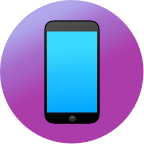
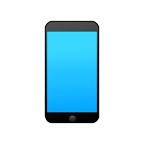
Switch build.webkit.org to iOS 10 https://bugs.webkit.org/show_bug.cgi?id=161930
Reviewed by Daniel Bates.

* BuildSlaveSupport/build.webkit.org-config/config.json:
* BuildSlaveSupport/build.webkit.org-config/master.cfg:
(RunWebKitTests.start):
* BuildSlaveSupport/build.webkit.org-config/mastercfg_unittest.py:
* BuildSlaveSupport/build.webkit.org-config/public_html/dashboard/Images/IOS10.png: Added.
* BuildSlaveSupport/build.webkit.org-config/public_html/dashboard/Images/IOS10@2x.png: Added.
* BuildSlaveSupport/build.webkit.org-config/public_html/dashboard/Images/IOS10Simulator.png: Added.
* BuildSlaveSupport/build.webkit.org-config/public_html/dashboard/Images/IOS10Simulator@2x.png: Added.
* BuildSlaveSupport/build.webkit.org-config/public_html/dashboard/Images/IOSDevice.png:
* BuildSlaveSupport/build.webkit.org-config/public_html/dashboard/Images/IOSDevice@2x.png:
* BuildSlaveSupport/build.webkit.org-config/public_html/dashboard/Images/IOSSimulator.png: Added.
* BuildSlaveSupport/build.webkit.org-config/public_html/dashboard/Images/IOSSimulator@2x.png: Added.
* BuildSlaveSupport/build.webkit.org-config/public_html/dashboard/Scripts/BubbleQueueServer.js:
* BuildSlaveSupport/build.webkit.org-config/public_html/dashboard/Scripts/Dashboard.js:
* BuildSlaveSupport/build.webkit.org-config/public_html/dashboard/Scripts/WebKitBuildbot.js:
* BuildSlaveSupport/build.webkit.org-config/public_html/dashboard/Styles/Main.css:
* BuildSlaveSupport/build.webkit.org-config/wkbuild.py:
* BuildSlaveSupport/build.webkit.org-config/wkbuild_unittest.py:
[…]

diff --git a/Tools/BuildSlaveSupport/build.webkit.org-config/public_html/dashboard/Scripts/WebKitBuildbot.js b/Tools/BuildSlaveSupport/build.webkit.org-config/public_html/dashboard/Scripts/WebKitBuildbot.js
@@ -55,13 +55,13 @@ WebKitBuildbot = function()
             "Apple Yosemite Debug JSC (Tests)": {heading: "Debug JSC (Tests)"},
             "Apple Yosemite Release JSC (Tests)": {heading: "Release JSC (Tests)"},
         }},
-        "Apple iOS 9 Release (Build)": {platform: Dashboard.Platform.iOS9Device, debug: false, builder: true, architecture: Buildbot.BuildArchitecture.Universal},
-        "Apple iOS 9 Simulator Release (Build)": {platform: Dashboard.Platform.iOS9Simulator, debug: false, builder: true, architecture: Buildbot.BuildArchitecture.SixtyFourBit},
-        "Apple iOS 9 Simulator Release WK1 (Tests)": {platform: Dashboard.Platform.iOS9Simulator, debug: false, tester: true, testCategory: Buildbot.TestCategory.WebKit1},
-        "Apple iOS 9 Simulator Release WK2 (Tests)": {platform: Dashboard.Platform.iOS9Simulator, debug: false, tester: true, testCategory: Buildbot.TestCategory.WebKit2},
-        "Apple iOS 9 Simulator Debug (Build)": {platform: Dashboard.Platform.iOS9Simulator, debug: true, builder: true, architecture: Buildbot.BuildArchitecture.SixtyFourBit},
-        "Apple iOS 9 Simulator Debug WK1 (Tests)": {platform: Dashboard.Platform.iOS9Simulator, debug: true, tester: true, testCategory: Buildbot.TestCategory.WebKit1},
-        "Apple iOS 9 Simulator Debug WK2 (Tests)": {platform: Dashboard.Platform.iOS9Simulator, debug: true, tester: true, testCategory: Buildbot.TestCategory.WebKit2},
+        "Apple iOS 10 Release (Build)": {platform: Dashboard.Platform.iOS10Device, debug: false, builder: true, architecture: Buildbot.BuildArchitecture.Universal},
+        "Apple iOS 10 Simulator Release (Build)": {platform: Dashboard.Platform.iOS10Simulator, debug: false, builder: true, architecture: Buildbot.BuildArchitecture.SixtyFourBit},
+        "Apple iOS 10 Simulator Release WK1 (Tests)": {platform: Dashboard.Platform.iOS10Simulator, debug: false, tester: true, testCategory: Buildbot.TestCategory.WebKit1},
+        "Apple iOS 10 Simulator Release WK2 (Tests)": {platform: Dashboard.Platform.iOS10Simulator, debug: false, tester: true, testCategory: Buildbot.TestCategory.WebKit2},
+        "Apple iOS 10 Simulator Debug (Build)": {platform: Dashboard.Platform.iOS10Simulator, debug: true, builder: true, architecture: Buildbot.BuildArchitecture.SixtyFourBit},
+        "Apple iOS 10 Simulator Debug WK1 (Tests)": {platform: Dashboard.Platform.iOS10Simulator, debug: true, tester: true, testCategory: Buildbot.TestCategory.WebKit1},
+        "Apple iOS 10 Simulator Debug WK2 (Tests)": {platform: Dashboard.Platform.iOS10Simulator, debug: true, tester: true, testCategory: Buildbot.TestCategory.WebKit2},
         "Apple Win Debug (Build)": {platform: Dashboard.Platform.Windows7, debug: true, builder: true, architecture: Buildbot.BuildArchitecture.ThirtyTwoBit},
         "Apple Win Release (Build)": {platform: Dashboard.Platform.Windows7, builder: true, architecture: Buildbot.BuildArchitecture.ThirtyTwoBit},
         "Apple Win 7 Debug (Tests)": {platform: Dashboard.Platform.Windows7, debug: true, tester: true, testCategory: Buildbot.TestCategory.WebKit1},

diff --git a/Tools/BuildSlaveSupport/build.webkit.org-config/public_html/dashboard/Scripts/BubbleQueueServer.js b/Tools/BuildSlaveSupport/build.webkit.org-config/public_html/dashboard/Scripts/BubbleQueueServer.js
@@ -29,8 +29,8 @@ BubbleQueueServer = function()
         "commit-queue": {platform: Dashboard.Platform.MacOSXYosemite, shortName: "commit", title: "Commit Queue"},
         "style-queue": {shortName: "style", title: "Style Checker Queue"},
         "gtk-wk2-ews": {platform: Dashboard.Platform.LinuxGTK, shortName: "gtk-wk2", title: "WebKit2\xa0Release\xa0Build\xa0EWS"},
-        "ios-ews": {platform: Dashboard.Platform.iOS9Device, shortName: "ios", title: "Release\xa0Build\xa0EWS"},
-        "ios-sim-ews": {platform: Dashboard.Platform.iOS9Simulator, shortName: "ios-sim", title: "WebKit2\xa0Release\xa0Tests\xa0EWS"},
+        "ios-ews": {platform: Dashboard.Platform.iOS10Device, shortName: "ios", title: "Release\xa0Build\xa0EWS"},
+        "ios-sim-ews": {platform: Dashboard.Platform.iOS10Simulator, shortName: "ios-sim", title: "WebKit2\xa0Release\xa0Tests\xa0EWS"},
         "mac-ews": {platform: Dashboard.Platform.MacOSXYosemite, shortName: "mac", title: "WebKit1\xa0Release\xa0Tests\xa0EWS"},
         "mac-wk2-ews": {platform: Dashboard.Platform.MacOSXYosemite, shortName: "mac-wk2", title: "WebKit2\xa0Release\xa0Tests\xa0EWS"},
         "mac-debug-ews": {platform: Dashboard.Platform.MacOSXYosemite, shortName: "mac-debug", title: "WebKit1\xa0Debug\xa0Tests\xa0EWS"},

diff --git a/Tools/BuildSlaveSupport/build.webkit.org-config/public_html/dashboard/Scripts/Dashboard.js b/Tools/BuildSlaveSupport/build.webkit.org-config/public_html/dashboard/Scripts/Dashboard.js
@@ -29,8 +29,10 @@ Dashboard = {
         MacOSXElCapitan: { name: "mac-os-x-elcapitan", readableName: "OS X El Capitan", order: 9 },
         MacOSXYosemite: { name: "mac-os-x-yosemite", readableName: "OS X Yosemite", order: 10 },
         MacOSXMavericks: { name: "mac-os-x-mavericks", readableName: "OS X Mavericks", order: 20 },
-        iOS9Simulator: { name: "ios-simulator-9", readableName: "iOS 9 Simulator", order: 30 },
-        iOS9Device: { name: "ios-9", readableName: "iOS 9", order: 40 },
+        iOS10Simulator: { name: "ios-simulator-10", readableName: "iOS 10 Simulator", order: 30 },
+        iOS10Device: { name: "ios-10", readableName: "iOS 10", order: 40 },
+        iOS9Simulator: { name: "ios-simulator-9", readableName: "iOS 9 Simulator", order: 41 },
+        iOS9Device: { name: "ios-9", readableName: "iOS 9", order: 42 },
         Windows8: { name: "windows-8", readableName: "Windows 8", order: 50 },
         Windows7: { name: "windows-7", readableName: "Windows 7", order: 60 },
         WindowsXP: { name: "windows-xp", readableName: "Windows XP", order: 70 },

diff --git a/Tools/BuildSlaveSupport/build.webkit.org-config/public_html/dashboard/Styles/Main.css b/Tools/BuildSlaveSupport/build.webkit.org-config/public_html/dashboard/Styles/Main.css
@@ -170,16 +170,22 @@ table.queue-grid td.logo img.logo {
     clip-path: circle(72px at center);
 }
 
+table.queue-grid tr.platform.ios-simulator-10 img.logo {
+    background: linear-gradient(155deg, #b1a8ed 16%,#aa3daa 50%);
+    content: -webkit-image-set(url(../Images/IOS10Simulator@2x.png) 2x, url(../Images/IOS10Simulator.png) 1x);
+}
+
+table.queue-grid tr.platform.ios-10 img.logo {
+    background: linear-gradient(155deg, #b1a8ed 16%,#aa3daa 50%);
+    content: -webkit-image-set(url(../Images/IOS10@2x.png) 2x, url(../Images/IOS10.png) 1x);
+}
+
 table.queue-grid tr.platform.ios-simulator-9 img.logo {
     content: -webkit-image-set(url(../Images/IOS9Simulator@2x.png) 2x, url(../Images/IOS9Simulator.png) 1x);
 }
 
 table.queue-grid tr.platform.ios-9 img.logo {
     content: -webkit-image-set(url(../Images/IOS9@2x.png) 2x, url(../Images/IOS9.png) 1x);
-}
-
-table.queue-grid tr.platform.ios-8 img.logo {
-    content: -webkit-image-set(url(../Images/IOSDevice@2x.png) 2x, url(../Images/IOSDevice.png) 1x);
 }
 
 table.queue-grid tr.platform.mac-os-x-elcapitan img.logo {

diff --git a/Tools/BuildSlaveSupport/build.webkit.org-config/wkbuild_unittest.py b/Tools/BuildSlaveSupport/build.webkit.org-config/wkbuild_unittest.py
@@ -29,8 +29,8 @@ class ShouldBuildTest(unittest.TestCase):
         (["ChangeLog", "Source/WebCore/ChangeLog", "Source/WebKit2/ChangeLog-2011-02-11"], []),
         (["Websites/bugs.webkit.org/foo", "Source/WebCore/bar"], ["*"]),
         (["Websites/bugs.webkit.org/foo"], []),
-        (["Source/JavaScriptCore/JavaScriptCore.xcodeproj/foo"], ["mac-yosemite", "mac-elcapitan", "mac-sierra", "ios-9", "ios-simulator-9"]),
-        (["Source/JavaScriptCore/Configurations/Base.xcconfig"], ["mac-yosemite", "mac-elcapitan", "mac-sierra", "ios-9", "ios-simulator-9"]),
+        (["Source/JavaScriptCore/JavaScriptCore.xcodeproj/foo"], ["mac-yosemite", "mac-elcapitan", "mac-sierra", "ios-10", "ios-simulator-10"]),
+        (["Source/JavaScriptCore/Configurations/Base.xcconfig"], ["mac-yosemite", "mac-elcapitan", "mac-sierra", "ios-10", "ios-simulator-10"]),
         (["Source/JavaScriptCore/JavaScriptCore.vcproj/foo", "Source/WebKit2/win/WebKit2.vcproj", "Source/WebKit/win/WebKit.sln", "Tools/WebKitTestRunner/Configurations/WebKitTestRunnerCommon.vsprops"], ["win"]),
         (["LayoutTests/platform/mac/foo", "Source/WebCore/bar"], ["*"]),
         (["LayoutTests/foo"], ["*"]),
@@ -38,10 +38,10 @@ class ShouldBuildTest(unittest.TestCase):
         (["LayoutTests/platform/mac-yosemite/foo"], ["mac-yosemite"]),
         (["LayoutTests/platform/mac-elcapitan/foo"], ["mac-yosemite", "mac-elcapitan"]),
         (["LayoutTests/platform/mac-sierra/foo"], ["mac-yosemite", "mac-elcapitan", "mac-sierra"]),
-        (["LayoutTests/platform/ios-simulator/foo"], ["ios-9", "ios-simulator-9"]),
-        (["LayoutTests/platform/ios-simulator-wk1/foo"], ["ios-9", "ios-simulator-9"]),
-        (["LayoutTests/platform/ios-simulator-wk2/foo"], ["ios-9", "ios-simulator-9"]),
-        (["LayoutTests/platform/wk2/Skipped"], ["mac-yosemite", "mac-elcapitan", "mac-sierra", "ios-9", "ios-simulator-9"]),
+        (["LayoutTests/platform/ios-simulator/foo"], ["ios-10", "ios-simulator-10"]),
+        (["LayoutTests/platform/ios-simulator-wk1/foo"], ["ios-10", "ios-simulator-10"]),
+        (["LayoutTests/platform/ios-simulator-wk2/foo"], ["ios-10", "ios-simulator-10"]),
+        (["LayoutTests/platform/wk2/Skipped"], ["mac-yosemite", "mac-elcapitan", "mac-sierra", "ios-10", "ios-simulator-10"]),
         (["LayoutTests/platform/mac-wk2/Skipped"], ["mac-yosemite", "mac-elcapitan", "mac-sierra"]),
         (["LayoutTests/platform/mac-wk1/compositing/tiling/transform-origin-tiled-expected.txt"], ["mac-yosemite", "mac-elcapitan", "mac-sierra"]),
         (["LayoutTests/platform/mac/foo"], ["mac-yosemite", "mac-elcapitan", "mac-sierra", "win"]),
@@ -49,19 +49,19 @@ class ShouldBuildTest(unittest.TestCase):
         (["LayoutTests/platform/win-xp/foo"], ["win"]),
         (["LayoutTests/platform/win-wk1/foo"], ["win"]),
         (["LayoutTests/platform/win/foo"], ["win"]),
-        (["LayoutTests/platform/spi/cocoa/foo"], ["mac-yosemite", "mac-elcapitan", "mac-sierra", "ios-9", "ios-simulator-9"]),
-        (["LayoutTests/platform/spi/cf/foo"], ["mac-yosemite", "mac-elcapitan", "mac-sierra", "win", "ios-9", "ios-simulator-9"]),
+        (["LayoutTests/platform/spi/cocoa/foo"], ["mac-yosemite", "mac-elcapitan", "mac-sierra", "ios-10", "ios-simulator-10"]),
+        (["LayoutTests/platform/spi/cf/foo"], ["mac-yosemite", "mac-elcapitan", "mac-sierra", "win", "ios-10", "ios-simulator-10"]),
         (["Source/WebKit/mac/WebKit.mac.exp"], ["mac-yosemite", "mac-elcapitan", "mac-sierra"]),
-        (["Source/WebKit/ios/WebKit.iOS.exp"], ["ios-9", "ios-simulator-9"]),
-        (["Source/Dummy/foo.exp"], ["mac-yosemite", "mac-elcapitan", "mac-sierra", "ios-9", "ios-simulator-9"]),
-        (["Source/WebCore/ios/foo"], ["ios-9", "ios-simulator-9"]),
+        (["Source/WebKit/ios/WebKit.iOS.exp"], ["ios-10", "ios-simulator-10"]),
+        (["Source/Dummy/foo.exp"], ["mac-yosemite", "mac-elcapitan", "mac-sierra", "ios-10", "ios-simulator-10"]),
+        (["Source/WebCore/ios/foo"], ["ios-10", "ios-simulator-10"]),
         (["Source/WebCore/mac/foo"], ["mac-yosemite", "mac-elcapitan", "mac-sierra"]),
         (["Source/WebCore/win/foo"], ["win"]),
-        (["Source/WebCore/bridge/objc/objc_class.mm"], ["mac-yosemite", "mac-elcapitan", "mac-sierra", "ios-9", "ios-simulator-9"]),
+        (["Source/WebCore/bridge/objc/objc_class.mm"], ["mac-yosemite", "mac-elcapitan", "mac-sierra", "ios-10", "ios-simulator-10"]),
         (["Source/WebCore/platform/wx/wxcode/win/foo"], []),
-        (["Source/WebCore/accessibility/ios/AXObjectCacheIOS.mm"], ["ios-9", "ios-simulator-9"]),
+        (["Source/WebCore/accessibility/ios/AXObjectCacheIOS.mm"], ["ios-10", "ios-simulator-10"]),
         (["Source/WebCore/rendering/RenderThemeMac.mm", "Source/WebCore/rendering/RenderThemeMac.h"], ["mac-yosemite", "mac-elcapitan", "mac-sierra"]),
-        (["Source/WebCore/rendering/RenderThemeIOS.mm", "Source/WebCore/rendering/RenderThemeIOS.h"], ["ios-9", "ios-simulator-9"]),
+        (["Source/WebCore/rendering/RenderThemeIOS.mm", "Source/WebCore/rendering/RenderThemeIOS.h"], ["ios-10", "ios-simulator-10"]),
         (["Tools/BuildSlaveSupport/build.webkit.org-config/public_html/LeaksViewer/LeaksViewer.js"], []),
     ]
 
@@ -69,7 +69,7 @@ class ShouldBuildTest(unittest.TestCase):
         for files, platforms in self._should_build_tests:
             # FIXME: We should test more platforms here once
             # wkbuild._should_file_trigger_build is implemented for them.
-            for platform in ["mac-yosemite", "mac-elcapitan", "mac-sierra", "win", "ios-9", "ios-simulator-9"]:
+            for platform in ["mac-yosemite", "mac-elcapitan", "mac-sierra", "win", "ios-10", "ios-simulator-10"]:
                 should_build = platform in platforms or "*" in platforms
                 self.assertEqual(wkbuild.should_build(platform, files), should_build, "%s should%s have built but did%s (files: %s)" % (platform, "" if should_build else "n't", "n't" if should_build else "", str(files)))
 

diff --git a/Tools/BuildSlaveSupport/build.webkit.org-config/mastercfg_unittest.py b/Tools/BuildSlaveSupport/build.webkit.org-config/mastercfg_unittest.py
@@ -399,14 +399,14 @@ expected_build_steps = {
     'Apple El Capitan Release WK1 (Tests)' : ['configure build', 'svn', 'kill old processes', 'delete WebKitBuild directory', 'delete stale build files', 'download-built-product', 'extract-built-product', 'layout-test', 'run-api-tests', 'webkitpy-test', 'webkitperl-test', 'bindings-generation-tests', 'builtins-generation-tests', 'archive-test-results', 'upload', 'MasterShellCommand'],
     'Apple El Capitan Release WK2 (Tests)' : ['configure build', 'svn', 'kill old processes', 'delete WebKitBuild directory', 'delete stale build files', 'download-built-product', 'extract-built-product', 'layout-test', 'run-api-tests', 'webkitpy-test', 'webkitperl-test', 'bindings-generation-tests', 'builtins-generation-tests', 'archive-test-results', 'upload', 'MasterShellCommand'],
 
-    'Apple iOS 9 Release (Build)' : ['configure build', 'svn', 'kill old processes', 'delete WebKitBuild directory', 'delete stale build files', 'compile-webkit'],
-    'Apple iOS 9 Simulator Release (Build)' : ['configure build', 'svn', 'kill old processes', 'delete WebKitBuild directory', 'delete stale build files', 'compile-webkit', 'archive-built-product', 'upload', 'trigger'],
-    'Apple iOS 9 Simulator Release WK1 (Tests)' : ['configure build', 'svn', 'kill old processes', 'delete WebKitBuild directory', 'delete stale build files', 'download-built-product', 'extract-built-product', 'layout-test', 'run-api-tests', 'webkitpy-test', 'webkitperl-test', 'bindings-generation-tests', 'builtins-generation-tests', 'archive-test-results', 'upload', 'MasterShellCommand'],
-    'Apple iOS 9 Simulator Release WK2 (Tests)' : ['configure build', 'svn', 'kill old processes', 'delete WebKitBuild directory', 'delete stale build files', 'download-built-product', 'extract-built-product', 'layout-test', 'run-api-tests', 'webkitpy-test', 'webkitperl-test', 'bindings-generation-tests', 'builtins-generation-tests', 'archive-test-results', 'upload', 'MasterShellCommand'],
+    'Apple iOS 10 Release (Build)' : ['configure build', 'svn', 'kill old processes', 'delete WebKitBuild directory', 'delete stale build files', 'compile-webkit'],
+    'Apple iOS 10 Simulator Release (Build)' : ['configure build', 'svn', 'kill old processes', 'delete WebKitBuild directory', 'delete stale build files', 'compile-webkit', 'archive-built-product', 'upload', 'trigger'],
+    'Apple iOS 10 Simulator Release WK1 (Tests)' : ['configure build', 'svn', 'kill old processes', 'delete WebKitBuild directory', 'delete stale build files', 'download-built-product', 'extract-built-product', 'layout-test', 'run-api-tests', 'webkitpy-test', 'webkitperl-test', 'bindings-generation-tests', 'builtins-generation-tests', 'archive-test-results', 'upload', 'MasterShellCommand'],
+    'Apple iOS 10 Simulator Release WK2 (Tests)' : ['configure build', 'svn', 'kill old processes', 'delete WebKitBuild directory', 'delete stale build files', 'download-built-product', 'extract-built-product', 'layout-test', 'run-api-tests', 'webkitpy-test', 'webkitperl-test', 'bindings-generation-tests', 'builtins-generation-tests', 'archive-test-results', 'upload', 'MasterShellCommand'],
 
-    'Apple iOS 9 Simulator Debug (Build)' : ['configure build', 'svn', 'kill old processes', 'delete WebKitBuild directory', 'delete stale build files', 'compile-webkit', 'archive-built-product', 'upload', 'trigger'],
-    'Apple iOS 9 Simulator Debug WK1 (Tests)' : ['configure build', 'svn', 'kill old processes', 'delete WebKitBuild directory', 'delete stale build files', 'download-built-product', 'extract-built-product', 'layout-test', 'run-api-tests', 'webkitpy-test', 'webkitperl-test', 'bindings-generation-tests', 'builtins-generation-tests', 'archive-test-results', 'upload', 'MasterShellCommand'],
-    'Apple iOS 9 Simulator Debug WK2 (Tests)' : ['configure build', 'svn', 'kill old processes', 'delete WebKitBuild directory', 'delete stale build files', 'download-built-product', 'extract-built-product', 'layout-test', 'run-api-tests', 'webkitpy-test', 'webkitperl-test', 'bindings-generation-tests', 'builtins-generation-tests', 'archive-test-results', 'upload', 'MasterShellCommand'],
+    'Apple iOS 10 Simulator Debug (Build)' : ['configure build', 'svn', 'kill old processes', 'delete WebKitBuild directory', 'delete stale build files', 'compile-webkit', 'archive-built-product', 'upload', 'trigger'],
+    'Apple iOS 10 Simulator Debug WK1 (Tests)' : ['configure build', 'svn', 'kill old processes', 'delete WebKitBuild directory', 'delete stale build files', 'download-built-product', 'extract-built-product', 'layout-test', 'run-api-tests', 'webkitpy-test', 'webkitperl-test', 'bindings-generation-tests', 'builtins-generation-tests', 'archive-test-results', 'upload', 'MasterShellCommand'],
+    'Apple iOS 10 Simulator Debug WK2 (Tests)' : ['configure build', 'svn', 'kill old processes', 'delete WebKitBuild directory', 'delete stale build files', 'download-built-product', 'extract-built-product', 'layout-test', 'run-api-tests', 'webkitpy-test', 'webkitperl-test', 'bindings-generation-tests', 'builtins-generation-tests', 'archive-test-results', 'upload', 'MasterShellCommand'],
 
     'EFL Linux 64-bit Release WK2' : ['configure build', 'svn', 'kill old processes', 'delete WebKitBuild directory', 'delete stale build files', 'jhbuild', 'compile-webkit', 'jscore-test', 'layout-test', 'webkitpy-test', 'webkitperl-test', 'bindings-generation-tests', 'builtins-generation-tests', 'archive-test-results', 'upload', 'MasterShellCommand', 'API tests'],
     'EFL Linux 64-bit Release WK2 (Perf)' : ['configure build', 'svn', 'kill old processes', 'delete WebKitBuild directory', 'delete stale build files', 'jhbuild', 'compile-webkit', 'perf-test'],

diff --git a/Tools/BuildSlaveSupport/build.webkit.org-config/wkbuild.py b/Tools/BuildSlaveSupport/build.webkit.org-config/wkbuild.py
@@ -37,7 +37,7 @@ def _should_file_trigger_build(target_platform, file):
     # and start using it for their bots. Someone familiar with each platform
     # will have to figure out what the right set of directories/patterns is for
     # that platform.
-    assert(target_platform in ("mac-yosemite", "mac-elcapitan", "mac-sierra", "win", "ios-9", "ios-simulator-9"))
+    assert(target_platform in ("mac-yosemite", "mac-elcapitan", "mac-sierra", "win", "ios-10", "ios-simulator-10"))
 
     directories = [
         # Directories that shouldn't trigger builds on any bots.

diff --git a/Tools/Scripts/webkitpy/port/ios.py b/Tools/Scripts/webkitpy/port/ios.py
@@ -47,7 +47,7 @@ class IOSPort(ApplePort):
 
     ARCHITECTURES = ['armv7', 'armv7s', 'arm64']
     DEFAULT_ARCHITECTURE = 'arm64'
-    VERSION_FALLBACK_ORDER = ['ios-7', 'ios-8', 'ios-9']
+    VERSION_FALLBACK_ORDER = ['ios-7', 'ios-8', 'ios-9', 'ios-10']
 
     @classmethod
     def determine_full_port_name(cls, host, options, port_name):
